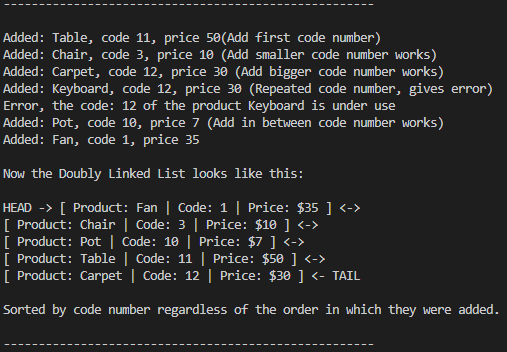
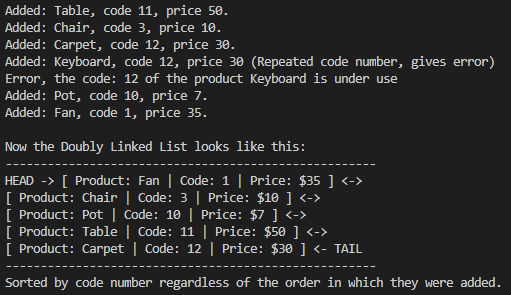
Grammar

Changed region(s): [[0.0, 0.5492, 0.9763, 1.0], [0.0, 0.0, 0.9763, 0.4271], [0.0, 0.4576, 0.5917, 0.5186]]

diff --git a/src/App.java b/src/App.java
@@ -8,61 +8,56 @@ public class App {
         Product product5 = new Product(1, "Fan", 35);
         Product product6 = new Product(4, "Spoon", 2);
         DoublyLinkedList lista = new DoublyLinkedList();
-        System.out.println("-----------------------------------------------------");
         System.out.println("");
-        System.out.println("Added: Table, code 11, price 50(Add first code number)");
+        System.out.println("Added: Table, code 11, price 50.");
         lista.insertInOrder(product1);/* Insert smaller than the first works */
 
-        System.out.println("Added: Chair, code 3, price 10 (Add smaller code number works)");
+        System.out.println("Added: Chair, code 3, price 10.");
         lista.insertInOrder(product2); /* Insert smaller than the first works */
 
-        System.out.println("Added: Carpet, code 12, price 30 (Add bigger code number works)");
+        System.out.println("Added: Carpet, code 12, price 30.");
         lista.insertInOrder(product3); /* Insert greater than the last works */
 
         System.out.println("Added: Keyboard, code 12, price 30 (Repeated code number, gives error)");
         lista.insertInOrder(product7); /* Insert a repeated code doesn't works */
 
-        System.out.println("Added: Pot, code 10, price 7 (Add in between code number works)");
+        System.out.println("Added: Pot, code 10, price 7.");
         lista.insertInOrder(product4); /* Insert in between works */
 
-        System.out.println("Added: Fan, code 1, price 35");
+        System.out.println("Added: Fan, code 1, price 35.");
         lista.insertInOrder(product5);
         System.out.println("");
 
         System.out.println("Now the Doubly Linked List looks like this:");
-        System.out.println("");
+        System.out.println("-----------------------------------------------------");
         lista.showList(); /* Show how the list is ordered by product code */
-        System.out.println("");
+        System.out.println("-----------------------------------------------------");
         System.out.println("Sorted by code number regardless of the order in which they were added.");
         System.out.println("");
         
-        
-        
-        
-        
        
         
-        System.out.println("-----------------------------------------------------");
         System.out.println("");
-        System.out.println("Deleting Carpet, code 12, delete tail product works:");
+        System.out.println("First, we delete Carpet to show that removing the tail works:");
         lista.deleteProduct(product3); /* Delete the last works */    
+        System.out.println("-----------------------------------------------------");
         lista.showList();
+        System.out.println("-----------------------------------------------------");
 
         System.out.println("");
         
-        System.out.println("Deleting Pot, code 10, delete products in between works:");
-        System.out.println("Now the Doubly Linked List looks like this:");
-        System.out.println("");
+        System.out.println("Then, we delete Pot to show that removing items in between works:");
         lista.deleteProduct(product4); /* Delete in the middle works */
+        System.out.println("-----------------------------------------------------");
         lista.showList();
+        System.out.println("-----------------------------------------------------");
 
         System.out.println("");
 
-        System.out.println("Deleting Fan, code 1, delete head product works:");
-        System.out.println("");
+        System.out.println("Finally, we delete Fan to show that removing the head works. ");
+        System.out.println("-----------------------------------------------------");
         lista.deleteProduct(product5); /* Delete the first works */
         lista.showList();
-        System.out.println("");
         System.out.println("-----------------------------------------------------");
         System.out.println("");
     }
